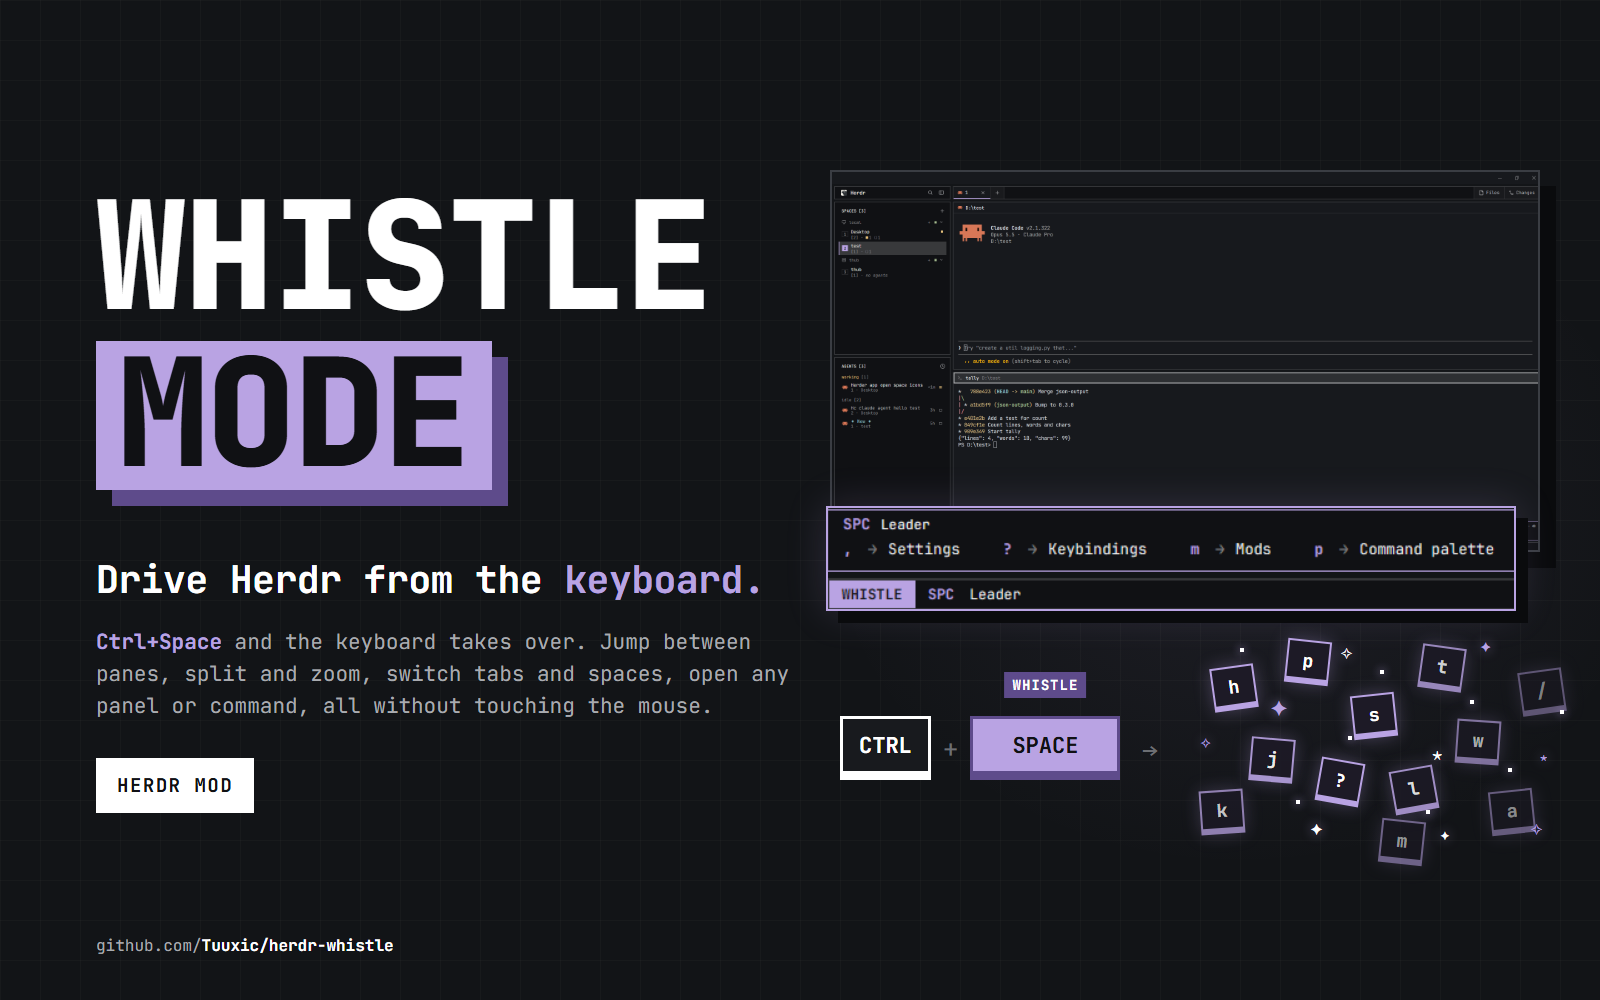
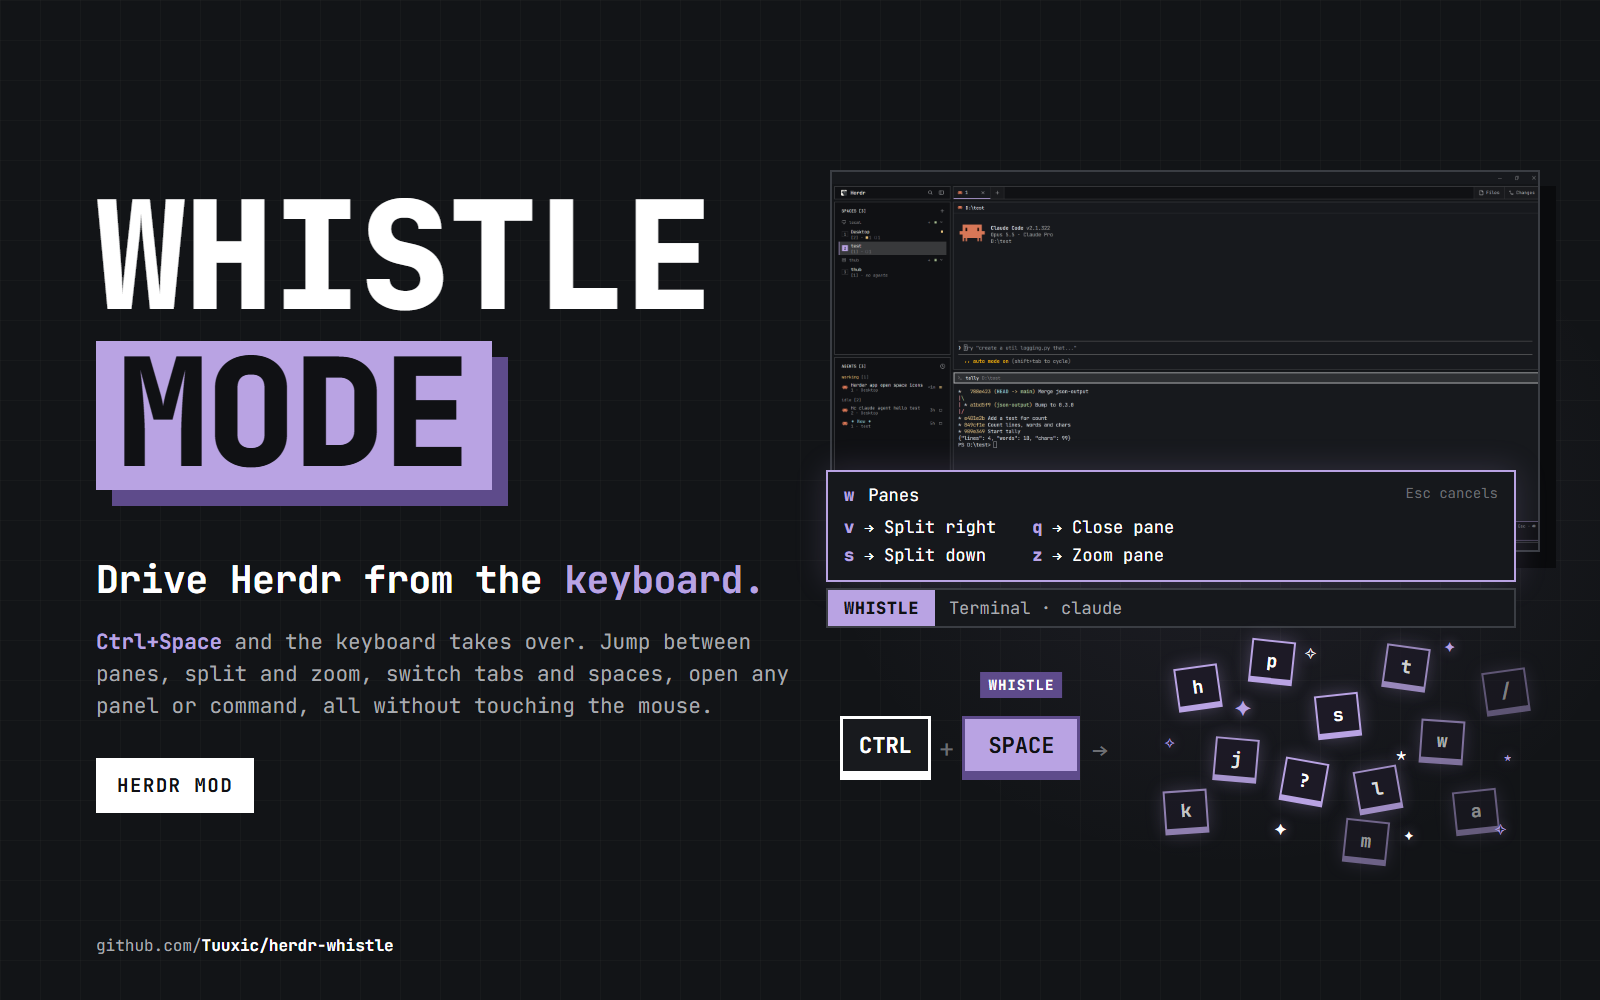
Poster: whistle 1.0's bar and hints, the keys inside the screenshot's column
The hints box shows the Panes group and the bar WHISTLE (drawn, instead of the
old SPC Leader crop), and the floating keys keep their look but end at x 1530,
inside the screenshot (they ran past it). Chosen from a prototype (variant C of
round 2, branch prototype/poster).

Changed region(s): [[0.5, 0.465, 1.0, 0.868], [0.5938, 0.651, 0.7188, 0.775]]

diff --git a/preview-src/index.html b/preview-src/index.html
@@ -1,11 +1,28 @@
 <!doctype html><html><head><meta charset="utf-8"><title>Whistle preview</title>
 <link rel="stylesheet" href="poster.css">
-<style>:root{--accent:#b9a3e3;--accent-deep:#5e4b8b;--glow:rgba(185,163,227,.07)}
+<style>
+:root{--accent:#b9a3e3;--accent-deep:#5e4b8b;--glow:rgba(185,163,227,.07);--chrome:#16181c}
 .mini{position:absolute;display:flex;align-items:center;justify-content:center;width:44px;height:44px;border:2px solid var(--accent);border-bottom-width:6px;background:#1d1a26;color:var(--fg);font-size:18px;font-weight:700;box-shadow:0 0 18px rgba(185,163,227,.3)}
-.cap.inf{min-width:96px;font-size:40px;background:#1d1a26;border-color:var(--accent);color:var(--accent);box-shadow:0 0 28px rgba(185,163,227,.45),0 0 70px rgba(185,163,227,.18)}
 .star{position:absolute;line-height:1;text-shadow:0 0 12px rgba(185,163,227,.7)}
-.dot{position:absolute;width:4px;height:4px;background:var(--fg);box-shadow:0 0 8px var(--accent)}
-.zoom{border-color:var(--accent)!important;box-shadow:12px 12px 0 #0a0b0d,0 0 40px rgba(185,163,227,.18)!important}
+/* whistle 1.0's bar and hints, drawn in HTML */
+.wbar{display:flex;align-items:center;gap:14px;height:40px;background:var(--chrome);border:2px solid #3a3d43;font-size:17px}
+.badge{height:100%;display:flex;align-items:center;padding:0 16px;font-weight:800;letter-spacing:.5px}
+.badge.w{background:var(--accent);color:#101114}.badge.t{border:2px solid var(--accent);color:var(--accent);height:calc(100% - 4px);margin-left:2px}
+.wbar .lbl{color:var(--muted)}
+.hints{background:var(--chrome);border:2px solid var(--accent);padding:12px 16px 14px;font-size:17px;box-shadow:0 0 30px rgba(185,163,227,.18)}
+.hints .top{display:flex;gap:14px;margin-bottom:10px}.hints .k{color:var(--accent);font-weight:800}
+.hints .grid{display:grid;grid-template-columns:repeat(2,auto);gap:6px 36px;justify-content:start}
+.hints .esc{margin-left:auto;color:var(--dim);font-size:14px}
+.step{position:absolute;display:flex;flex-direction:column;gap:12px}
+.num{display:inline-flex;align-items:center;justify-content:center;width:34px;height:34px;background:var(--accent);color:#101114;font-weight:800;font-size:19px}
+.cap.s{height:52px;min-width:52px;font-size:19px;padding:0 12px}
+.cap.s.hot{min-width:110px}
+.cap2{font-size:17px;color:var(--muted);line-height:25px}.cap2 b{color:var(--fg)}
+.arrow{position:absolute;font-size:30px;color:var(--dim)}
+.call{position:absolute;display:flex;align-items:center;justify-content:center;width:40px;height:40px;border-radius:50%;background:var(--accent);color:#101114;font-weight:800;font-size:20px;box-shadow:0 0 0 5px rgba(18,20,23,.9),0 0 24px rgba(185,163,227,.6)}
+.ring{position:absolute;border:3px solid var(--accent);box-shadow:0 0 24px rgba(185,163,227,.45)}
+.legend{position:absolute;display:flex;flex-direction:column;gap:18px;font-size:20px;color:var(--muted)}
+.legend div{display:flex;align-items:center;gap:16px}.legend b{color:var(--fg)}
 </style></head><body>
 <div class="left" style="top:0;bottom:0;display:flex;flex-direction:column;justify-content:center">
   <div class="title" style="margin-top:0"><span class="plain">WHISTLE</span><span class="box">MODE</span></div>
@@ -15,13 +32,16 @@
 </div>
 <div class="url">github.com/<b>Tuuxic/herdr-whistle</b></div>
 <div class="shot" style="left:830px;top:170px;width:710px;height:382px"><img src="shot.png" style="left:0;top:0;transform:scale(.37);transform-origin:0 0"></div>
-<div class="shot zoom" style="left:826px;top:506px;width:690px;height:105px"><img src="shot.png" style="left:-410px;top:-1180px;transform:scale(1.25);transform-origin:0 0"></div>
-<div class="motif" style="position:absolute;left:840px;top:640px;width:740px;height:220px">
-    <div style="position:absolute;left:0;top:76px;display:flex;align-items:center;gap:12px">
-      <span class="cap">CTRL</span><span style="font-size:26px;color:var(--dim)">+</span><span style="position:relative;display:inline-flex"><span class="cap hot" style="min-width:150px">SPACE</span><span class="tag" style="left:50%;top:-44px;transform:translateX(-50%)">WHISTLE</span></span>
-      <span style="font-size:28px;color:var(--dim);margin-left:10px">→</span>
+  <div style="position:absolute;left:826px;top:470px;width:690px">
+    <div class="hints"><div class="top"><span class="k">w</span><span>Panes</span><span class="esc">Esc cancels</span></div>
+      <div class="grid"><span><span class="k">v</span> → Split right</span><span><span class="k">q</span> → Close pane</span><span><span class="k">s</span> → Split down</span><span><span class="k">z</span> → Zoom pane</span></div></div>
+    <div class="wbar" style="margin-top:6px"><span class="badge w">WHISTLE</span><span class="lbl">Terminal · claude</span></div>
+  </div><div class="motif" style="position:absolute;left:840px;top:640px;width:700px;height:220px">
+    <div style="position:absolute;left:0;top:76px;display:flex;align-items:center;gap:8px">
+      <span class="cap">CTRL</span><span style="font-size:26px;color:var(--dim)">+</span><span style="position:relative;display:inline-flex"><span class="cap hot" style="min-width:118px">SPACE</span><span class="tag" style="left:50%;top:-44px;transform:translateX(-50%)">WHISTLE</span></span>
+      <span style="font-size:28px;color:var(--dim);margin-left:4px">→</span>
     </div>
     
-    <span class="mini" style="left:372px;top:26px;transform:rotate(-8deg);opacity:1">h</span><span class="mini" style="left:446px;top:0px;transform:rotate(6deg);opacity:1">p</span><span class="mini" style="left:410px;top:98px;transform:rotate(5deg);opacity:0.9">j</span><span class="mini" style="left:512px;top:54px;transform:rotate(-6deg);opacity:1">s</span><span class="mini" style="left:360px;top:150px;transform:rotate(-4deg);opacity:0.75">k</span><span class="mini" style="left:478px;top:120px;transform:rotate(10deg);opacity:1">?</span><span class="mini" style="left:580px;top:6px;transform:rotate(8deg);opacity:0.8">t</span><span class="mini" style="left:552px;top:128px;transform:rotate(-10deg);opacity:0.85">l</span><span class="mini" style="left:616px;top:80px;transform:rotate(4deg);opacity:0.65">w</span><span class="mini" style="left:650px;top:150px;transform:rotate(-6deg);opacity:0.5">a</span><span class="mini" style="left:540px;top:180px;transform:rotate(6deg);opacity:0.55">m</span><span class="mini" style="left:680px;top:30px;transform:rotate(-8deg);opacity:0.45">/</span><span class="star" style="left:430px;top:58px;font-size:22px;color:var(--accent)">✦</span><span class="star" style="left:500px;top:6px;font-size:16px;color:var(--fg)">✧</span><span class="star" style="left:592px;top:104px;font-size:20px;color:var(--fg)">⋆</span><span class="star" style="left:640px;top:0px;font-size:14px;color:var(--accent)">✦</span><span class="star" style="left:360px;top:96px;font-size:14px;color:var(--accent)">✧</span><span class="star" style="left:470px;top:182px;font-size:16px;color:var(--fg)">✦</span><span class="star" style="left:700px;top:110px;font-size:14px;color:var(--accent)">⋆</span><span class="star" style="left:600px;top:190px;font-size:12px;color:var(--fg)">✦</span><span class="star" style="left:690px;top:182px;font-size:16px;color:var(--accent)">✧</span><span class="dot" style="left:400px;top:8px"></span><span class="dot" style="left:540px;top:30px"></span><span class="dot" style="left:456px;top:160px"></span><span class="dot" style="left:630px;top:60px"></span><span class="dot" style="left:586px;top:170px"></span><span class="dot" style="left:720px;top:70px"></span><span class="dot" style="left:668px;top:128px"></span><span class="dot" style="left:508px;top:96px"></span>
+    <span class="mini" style="left:336px;top:26px;transform:rotate(-8deg);opacity:1">h</span><span class="mini" style="left:410px;top:0px;transform:rotate(6deg);opacity:1">p</span><span class="mini" style="left:374px;top:98px;transform:rotate(5deg);opacity:0.9">j</span><span class="mini" style="left:476px;top:54px;transform:rotate(-6deg);opacity:1">s</span><span class="mini" style="left:324px;top:150px;transform:rotate(-4deg);opacity:0.75">k</span><span class="mini" style="left:442px;top:120px;transform:rotate(10deg);opacity:1">?</span><span class="mini" style="left:544px;top:6px;transform:rotate(8deg);opacity:0.8">t</span><span class="mini" style="left:516px;top:128px;transform:rotate(-10deg);opacity:0.85">l</span><span class="mini" style="left:580px;top:80px;transform:rotate(4deg);opacity:0.65">w</span><span class="mini" style="left:614px;top:150px;transform:rotate(-6deg);opacity:0.5">a</span><span class="mini" style="left:504px;top:180px;transform:rotate(6deg);opacity:0.55">m</span><span class="mini" style="left:644px;top:30px;transform:rotate(-8deg);opacity:0.45">/</span><span class="star" style="left:394px;top:58px;font-size:22px;color:var(--accent)">✦</span><span class="star" style="left:464px;top:6px;font-size:16px;color:var(--fg)">✧</span><span class="star" style="left:556px;top:104px;font-size:20px;color:var(--fg)">⋆</span><span class="star" style="left:604px;top:0px;font-size:14px;color:var(--accent)">✦</span><span class="star" style="left:324px;top:96px;font-size:14px;color:var(--accent)">✧</span><span class="star" style="left:434px;top:182px;font-size:16px;color:var(--fg)">✦</span><span class="star" style="left:664px;top:110px;font-size:14px;color:var(--accent)">⋆</span><span class="star" style="left:564px;top:190px;font-size:12px;color:var(--fg)">✦</span><span class="star" style="left:654px;top:182px;font-size:16px;color:var(--accent)">✧</span><span class="dot" style="left:364px;top:8px"></span><span class="dot" style="left:504px;top:30px"></span><span class="dot" style="left:420px;top:160px"></span><span class="dot" style="left:594px;top:60px"></span><span class="dot" style="left:550px;top:170px"></span><span class="dot" style="left:684px;top:70px"></span><span class="dot" style="left:632px;top:128px"></span><span class="dot" style="left:472px;top:96px"></span>
   </div>
 </body></html>
